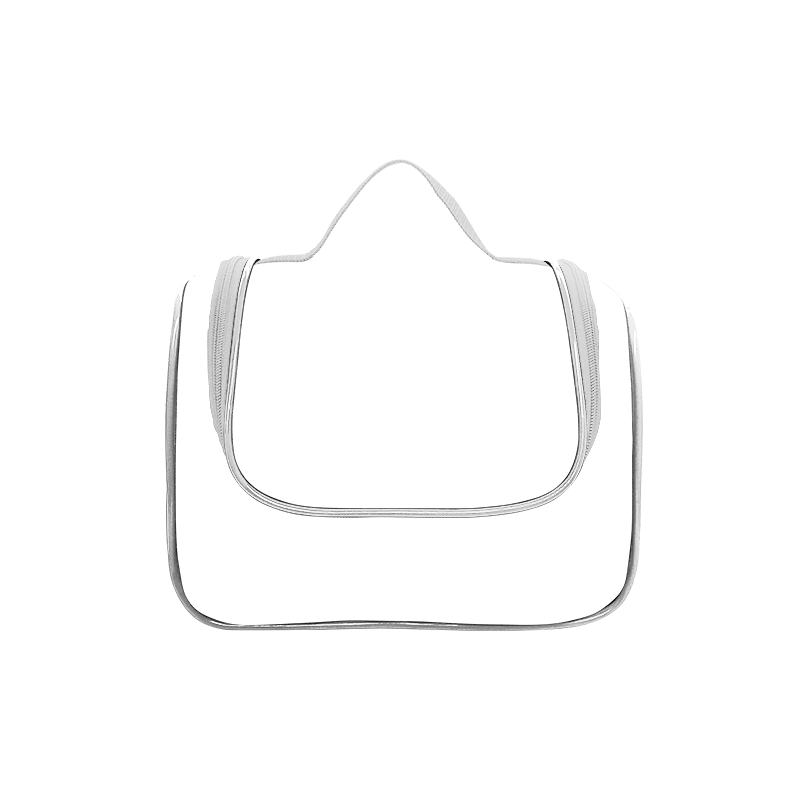
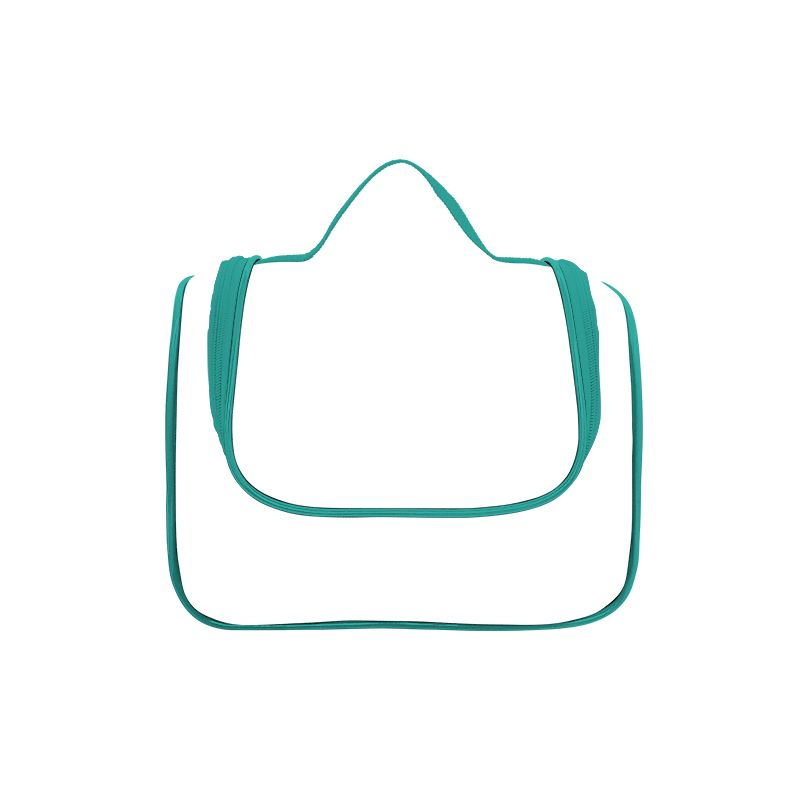
CONSEGUIIIIIIIIIIIIIIIIIIIIIIIII
OS BOTÕES SECUNDÁRIOS JA ESTÃO MUDANDO A COR DAS PEÇAS SEPARADAMENTE

diff --git a/assets/script/main.js b/assets/script/main.js
@@ -4,50 +4,60 @@ const listaBtnMain = document.querySelectorAll('.btnPrincipais')
 // referencia o container pai dos dois tipos de botões, principal e secundários
 const containerPaiDosBotoes = document.querySelector('#controlePrincipal');
 
+const corpo = document.querySelector('#parteProdutoCorpo')
+const detalhe = document.querySelector('#parteProdutoDetalhes')
+const tampa = document.querySelector('#parteProdutoTampa')
+
 
 //----------------------- Cria os botões de cores e atribuem classe -----------------------------
 
-const nomeDasCores = [ 'Azul' , 'Vermelho' , 'Preto' ];
-const btnCor = [];
+const nomeDasCores = [ 'azul' , 'vermelho' , 'preto' ];
+let btnModal = null;
+let listaDeBotoes = [];
 
 let modalBtnSecundario = null;
-let btnModal = null;
 //função recebe como argumento o id da lista listaBtnMain 
 function mostraBotao (id) {
     if (modalBtnSecundario){
         modalBtnSecundario.remove();
         modalBtnSecundario = null;
-        btnModal = null;
+        
 
     } else {
         modalBtnSecundario = document.createElement('div');
         modalBtnSecundario.classList.add('containerModalBtnSecundario');
         containerPaiDosBotoes.appendChild(modalBtnSecundario);
 
-        // laço para a criação dos botões de cores cores
-
-        for (let i = 0; i < nomeDasCores.length; i++) {
-            // Verifica se o botão de cor já foi criado antes
-            let corJaAdicionada = btnCor.some(btn => btn.classList.contains(`btn${nomeDasCores[i]}`));
-            // se o resultado for diferente de contem:
-            if (!corJaAdicionada) {
-                btnModal = document.createElement('button');
-                btnModal.classList.add(`btn${nomeDasCores[i]}`, 'btnSecundario');
-                btnModal.textContent = nomeDasCores[i];
-                modalBtnSecundario.appendChild(btnModal);
-                btnCor.push(btnModal);
-            } else {
-                // Se o resultado é diferente de não conter então cria os botões mas não adiciona mais à lista
-                btnModal = document.createElement('button');
-                btnModal.classList.add(`btn${nomeDasCores[i]}`, 'btnSecundario');
-                btnModal.textContent = nomeDasCores[i];
-                modalBtnSecundario.appendChild(btnModal);
+        function mudacor (idDoElemento) {
+            if (id === 'btnCorpo'){
+                corpo.classList.add(idDoElemento)
+            } else if (id === 'btnDetalhes') {
+                detalhe.classList.add(idDoElemento)
+            } else if (id === 'btnTampa'){
+                tampa.classList.add(idDoElemento)
             }
-        
         }
-    }
-       
+
+        // laço para a criação dos botões de cores cores
+        for (let i = 0; i < nomeDasCores.length; i++) {
+            btnModal = document.createElement('button');
+            btnModal.classList.add(`btn${nomeDasCores[i]}`, 'btnSecundario');
+            btnModal.id = `btnControle${nomeDasCores[i]}`
+            btnModal.textContent = nomeDasCores[i];
+
+            btnModal.addEventListener('click' , function() {
+                const corSelecionada = this.id.replace('btnControle', '');
+                mudacor (corSelecionada);
+            })
+            modalBtnSecundario.appendChild(btnModal);
+        }
+
+        
+        
+    }       
 }
+
+
 
 // Estrutura de laço, enquanto i for menor que o total de itens da listaBtnMain o laço acontece, a cada laço é atribuído ao botão da vez um ouvinte de click.
 for (i=0; i < listaBtnMain.length; i++){

diff --git a/index.html b/index.html
@@ -5,6 +5,7 @@
     <meta name="viewport" content="width=device-width, initial-scale=1.0">
     <link rel="stylesheet" href="assets/style/style.css">
     <link rel="stylesheet" href="assets/style/modal-btn-secundario.css">
+    <link rel="stylesheet" href="assets/style/cores.css">
     <title>customBrinde</title>
 </head>
 <body>
@@ -14,9 +15,9 @@
 
             <img class="partesDoProduto" src="assets/img/base.jpg" alt="">
             <img class="partesDoProduto" src="assets/img/camadaAjustes.png" alt="">
-            <img class="partesDoProduto" src="assets/img/corpo.png" alt="">
-            <img class="partesDoProduto" src="assets/img/detalhes.png" alt="">
-            <img class="partesDoProduto" src="assets/img/tampa.png" alt="">
+            <img class="partesDoProduto" id="parteProdutoCorpo" src="assets/img/corpo.png" alt="">
+            <img class="partesDoProduto" id="parteProdutoDetalhes" src="assets/img/detalhes.png" alt="">
+            <img class="partesDoProduto" id="parteProdutoTampa" src="assets/img/tampa.png" alt="">
 
         </div>
 

diff --git a/assets/style/cores.css b/assets/style/cores.css
@@ -1,0 +1,13 @@
+.azul {
+    filter: hue-rotate(23deg);
+}
+
+.vermelho {
+    filter: hue-rotate(185deg) brightness(90%) contrast(120%);
+    
+
+}
+
+.preto {
+    filter: grayscale(100%) brightness(50%);
+}
